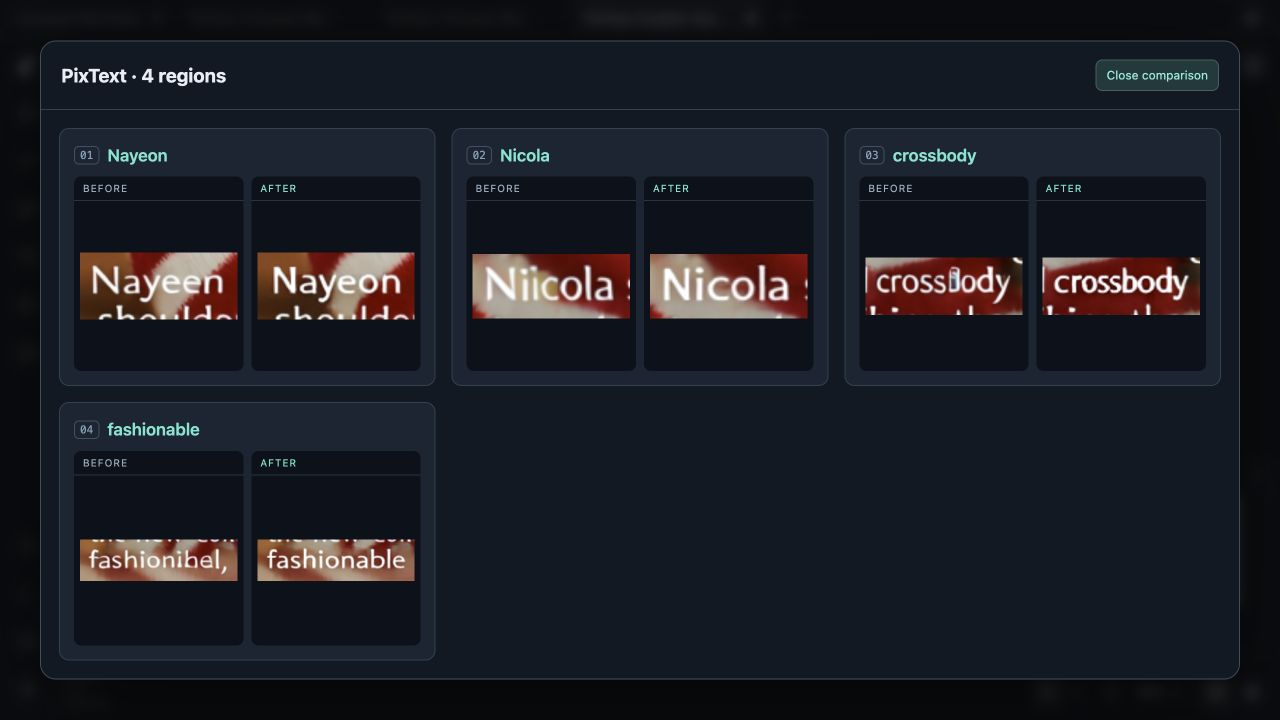
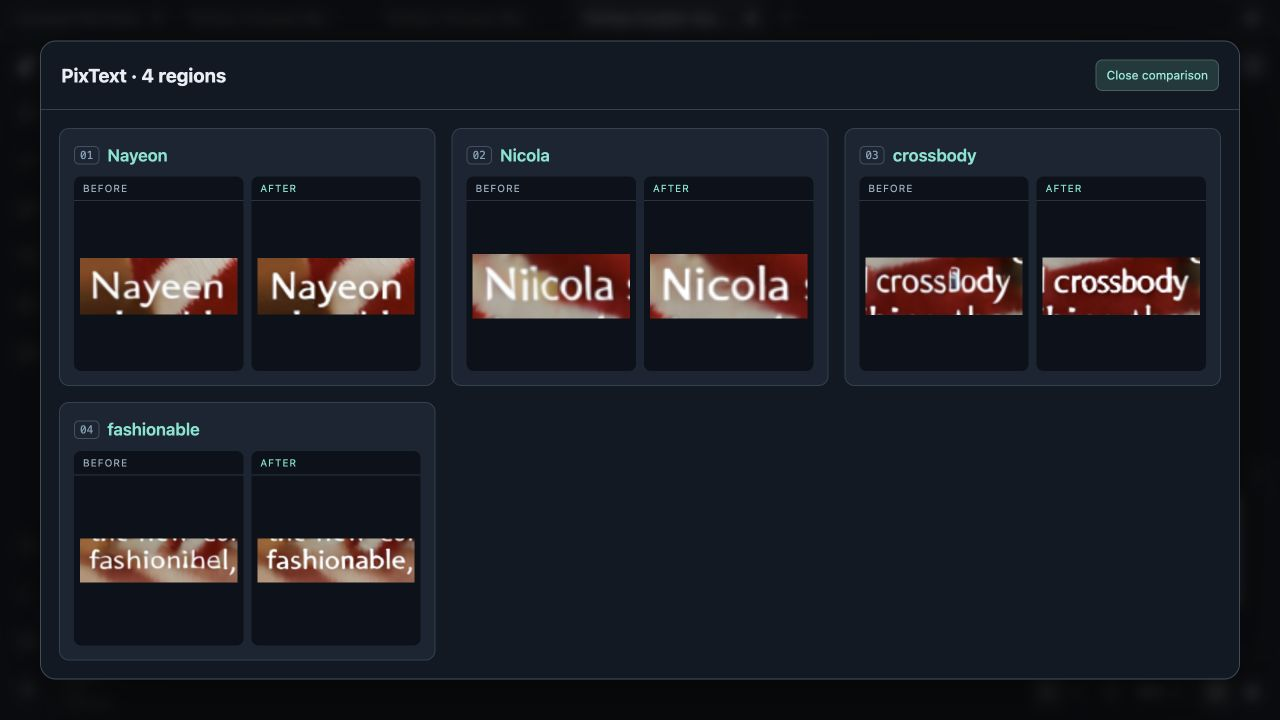
Document reviewed English word boundaries

diff --git a/README.md b/README.md
@@ -109,7 +109,7 @@ Restart ComfyUI and refresh the browser, then load the English workflow:
 
 1. **Run** once to detect and recognize words. Refinement waits for your review. The supplied image produces 36 candidate regions with the workflow's thresholds; detections can include false positives or split words.
 2. **Open Region Editor**. The detected boxes and recognized text appear automatically, with confidence values. Search for a word to find its card; use **Focus region** to inspect it closely; correct the target text, adjust its box, delete unwanted detections, or draw a missing region. Editing an OCR target automatically enables it; switches also work manually. Unchanged detections start disabled.
-3. For this example, change `Nayeen` → `Nayeon`, `Niicola` → `Nicola`, `crossBody` → `crossbody`, and the word starting `fashion` → `fashionable`. OCR confidence measures recognition of the visible image, not whether the spelling is correct. Keep the remaining regions disabled.
+3. For this example, change `Nayeen` → `Nayeon`, `Niicola` → `Nicola`, `crossBody` → `crossbody`, and the word starting `fashion` → `fashionable`. OCR confidence measures recognition of the visible image, not whether the spelling is correct. For this tightly spaced caption, set the `Nayeon` box’s `y1` to 853 and the `fashionable` box’s `x1` to 344 to exclude the next line and the trailing comma. Keep the remaining regions disabled.
 4. **Apply regions**, save the workflow, then **Run** again. The comparison node shows each selected word before and after repair. Later runs retain your saved boxes and target text. **Reload OCR suggestions** explicitly replaces the editor's current list and supports Undo.
 
 For another image, upload it in **Detect Words**, or connect its optional `image_in`. Connect both its `image` and `detections` outputs to the editor. New images or changed OCR results require review again. A lower `link_threshold` joins more character fragments; raise it if adjacent words merge. The English example uses 0.2 to keep damaged words together. Boxes are axis-aligned repair targets derived from CRAFT quadrilaterals; rotated text may need manual adjustment. This workflow offers word-level suggestions; the Chinese workflow retains its manually reviewed character targets. Model downloads are explicit and checksum-verified; inference sends no images to an external OCR service.

diff --git a/README.zh-CN.md b/README.zh-CN.md
@@ -109,7 +109,7 @@ python scripts/download_ocr_models.py --output ../../models/pixtext_ocr
 
 1. 先点 **Run**，自动检测识别单词；修复节点会等待审核。示例参数下有 36 个候选区域，可能包含误检或断开的词。
 2. 点 **Open Region Editor**，自动框、识别文字和置信度会直接出现。可以搜索文字定位卡片，用 **Focus region** 放大查看，再调整框、删除误检、补画漏检框，并输入目标词。修改 OCR 目标文字会自动启用该区域，也可以手动勾选；初始候选全部未勾选。
-3. 示例中将 `Nayeen` 改为 `Nayeon`、`Niicola` 改为 `Nicola`、`crossBody` 改为 `crossbody`，以及以 `fashion` 开头的错误词改为 `fashionable`。其余区域保持关闭。置信度仅表示识别器对图中文字的把握，不能判断原词拼写是否正确。
+3. 示例中将 `Nayeen` 改为 `Nayeon`、`Niicola` 改为 `Nicola`、`crossBody` 改为 `crossbody`，以及以 `fashion` 开头的错误词改为 `fashionable`。本例行距较密，可将 `Nayeon` 框的 `y1` 调为 853、`fashionable` 框的 `x1` 调为 344，避开下一行和词后的逗号。其余区域保持关闭。置信度仅表示识别器对图中文字的把握，不能判断原词拼写是否正确。
 4. 点 **Apply regions**，保存工作流，再点 **Run**。对比节点会逐词展示修复前后。后续重跑保留已保存的目标词和框；**Reload OCR suggestions** 可显式重置为检测结果，支持撤销。
 
 更换图片时，在 **Detect Words** 中上传，或连接可选的 `image_in`；将其 `image` 和 `detections` 一起接入编辑器。新图片或检测结果变化后需要重新审核。降低 `link_threshold` 能连接更多碎片，邻词粘连时可以调高；英文示例使用 0.2，使受损单词保持完整。修复框是 CRAFT 四边形的轴对齐外接框，倾斜文字可能需要人工微调。本工作流提供单词级建议，中文工作流继续使用已审核的字符框。模型需显式下载并校验 SHA-256，推理不会把图片发送给外部 OCR 服务。
